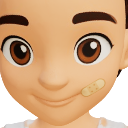
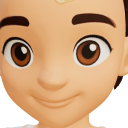
3D-forsøg: Pynt - regnbue ud på kinden, plaster i panden, mindre skønhedsplet

diff --git a/3d-forsoeg/index.html b/3d-forsoeg/index.html
@@ -625,7 +625,7 @@ function setPynt(name) { const k = name.slice(5);
   pyntNow = k === 'ingen' ? [] : pyntNow.includes(k) ? pyntNow.filter(x => x !== k) : pyntNow.filter(x => !(PYNT_CLASH[k] || []).includes(x)).concat(k);
   redrawBody(); renderStyles(); }
 function setupPynt(place) { const w = tex.w, h = tex.h, face = new Map();
-  for (const [p, [X, Y]] of place) if (Math.abs(X) < 1.3 && Y > -1 && Y < .8) face.set(p, [X, Y]);
+  for (const [p, [X, Y]] of place) if (Math.abs(X) < 1.3 && Y > -1 && Y < 1.15) face.set(p, [X, Y]); // (the forehead too)
   for (let r = 0; r < 6; r++) { const add = [];
     for (const [p, v] of face) for (const o of [1, -1, w, -w]) if (p + o >= 0 && p + o < w * h && !face.has(p + o) && !place.has(p + o)) add.push([p + o, v]);
     for (const [p, v] of add) if (!face.has(p)) face.set(p, v); }
@@ -651,23 +651,25 @@ function drawCheeks(ctx, list, skin) {
   ctx.save(); ctx.shadowColor = 'rgba(0,0,0,.18)'; ctx.shadowBlur = 1;
   if (has('hjerter')) { ctx.fillStyle = '#FF4F8B'; for (const [x, y] of CHEEKS) heart(x, y, 5); }
   if (has('stjerne')) star(CHEEKS[1][0], CHEEKS[1][1], 6.5, 2.6, '#FFC233');
-  if (has('regnbue')) { const x = 229, y = 175;
+  // (the user's places: the rainbow further out on the cheek than the app's x 229, the plaster up on the forehead, the
+  // beauty mark a little smaller)
+  if (has('regnbue')) { const x = 218, y = 178;
     ['#FF5A5A', '#FFA43B', '#FFD93B', '#5BD16E', '#4EA8FF', '#9B6BFF'].forEach((col, k) => {
       ctx.strokeStyle = col; ctx.lineWidth = 1.3; ctx.beginPath(); ctx.arc(x, y + 4, 7.5 - k * 1.15, Math.PI, 0); ctx.stroke(); }); }
-  if (has('plet')) { ctx.fillStyle = 'rgba(70,40,30,.85)'; ctx.beginPath(); ctx.arc(271, 178, 1.7, 0, Math.PI * 2); ctx.fill(); }
+  if (has('plet')) { ctx.fillStyle = 'rgba(70,40,30,.85)'; ctx.beginPath(); ctx.arc(271, 178, 1.2, 0, Math.PI * 2); ctx.fill(); }
   if (has('glimmer'))
     [[213, 131, 4.5, '#FFD43B'], [299, 129, 3.8, '#FFFFFF'], [294, 181, 3.2, '#FFD43B'], [218, 183, 3, '#FFFFFF'], [301, 155, 2.6, '#FF9EC4']]
       .forEach(([x, y, R, col]) => star(x, y, R * 1.5, R * .5, col)); // (half as big again as the app's: faint on the 3D face)
   ctx.restore();
-  if (has('plaster')) { ctx.save(); ctx.translate(285, 178); ctx.rotate(-.45);
+  if (has('plaster')) { ctx.save(); ctx.translate(270, 106); ctx.rotate(-.3);
     ctx.fillStyle = '#F3C38F'; ctx.strokeStyle = '#C98D55'; ctx.lineWidth = .8; ctx.beginPath(); ctx.roundRect(-10, -4, 20, 8, 4); ctx.fill(); ctx.stroke();
     ctx.fillStyle = '#E5AE77'; ctx.fillRect(-4, -4, 8, 8);
     ctx.fillStyle = '#C98D55'; for (const [dx, dy] of [[-2, -2], [2, 2], [2, -2], [-2, 2]]) { ctx.beginPath(); ctx.arc(dx, dy, .7, 0, Math.PI * 2); ctx.fill(); }
     ctx.restore(); } }
 // (the chosen things laid on the body's colour picture as it is redrawn: o its pixels. The app's picture from x 176 to
-// 336 and y 100 to 240, four times over)
+// 336 and y 76 to 240 - the forehead included - four times over)
 function drawPynt(o) { const P = tex.pynt; if (!P || !pyntNow.length) return;
-  const S = 4, x0 = 176, y0 = 100, W = 160 * S, H = 140 * S, c = document.createElement('canvas'); c.width = W; c.height = H;
+  const S = 4, x0 = 176, y0 = 76, W = 160 * S, H = 164 * S, c = document.createElement('canvas'); c.width = W; c.height = H;
   const g = c.getContext('2d'), sk = tex.colours[PARTS.skin] || tex.skin; g.scale(S, S); g.translate(-x0, -y0);
   drawCheeks(g, pyntNow, [sk.r * 255, sk.g * 255, sk.b * 255]);
   const d = g.getImageData(0, 0, W, H).data, T = P.texels;
